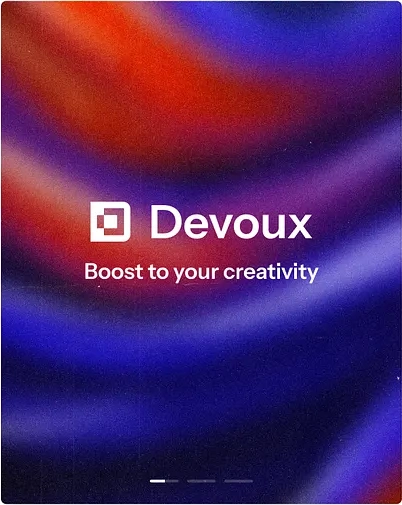
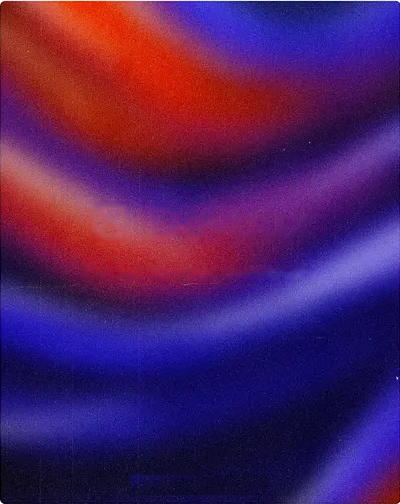
refactor(auth): purgar credenciales de login, ampliar contenedor e incorporar estetica minimalista con texto blanco hueso

diff --git a/frontend/src/app/login/page.tsx b/frontend/src/app/login/page.tsx
@@ -2,17 +2,7 @@
 
 import React, { useState } from 'react';
 import Image from 'next/image';
-import {
-  Lock,
-  Mail,
-  ShieldAlert,
-  ArrowRight,
-  UserCheck,
-  ShieldCheck,
-  Sparkles,
-  Smartphone,
-  Zap,
-} from 'lucide-react';
+import { Lock, Mail, ShieldAlert, ArrowRight } from 'lucide-react';
 import { useAuth } from '@/context/auth-context';
 import { Button } from '@/components/ui/button';
 import { Input } from '@/components/ui/input';
@@ -45,99 +35,61 @@ export default function LoginPage() {
   };
 
   return (
-    <div className="min-h-[calc(100vh-6rem)] flex items-center justify-center p-2 sm:p-4 lg:p-6 animate-in fade-in duration-300">
-      {/* Contenedor Flotante Split-Card (Inspirado en el diseño de referencia) */}
-      <div className="w-full max-w-4xl bg-white rounded-3xl shadow-2xl border border-slate-200/80 overflow-hidden grid grid-cols-1 lg:grid-cols-12">
+    <div className="min-h-[calc(100vh-5rem)] flex items-center justify-center p-3 sm:p-6 lg:p-10 animate-in fade-in duration-300">
+      {/* Contenedor Flotante Ampliado (Sincronizado con login_example.webp) */}
+      <div className="w-full max-w-5xl bg-white rounded-3xl shadow-2xl border border-slate-200/80 overflow-hidden grid grid-cols-1 lg:grid-cols-2">
         {/* =========================================================================
-            PANEL IZQUIERDO: Hero Artístico con Textura Líquida Orgánica y Grano Fino
-            (Replica exacta de docs/requerimientos/login_example.webp)
+            PANEL IZQUIERDO: Hero Artístico con Textura Líquida Orgánica
+            Solamente el nombre de la empresa centrado en color Blanco Hueso
             ========================================================================= */}
-        <div className="lg:col-span-5 relative p-6 sm:p-8 flex flex-col justify-between min-h-[460px] lg:min-h-[600px] bg-slate-950 text-white overflow-hidden">
+        <div className="relative p-8 sm:p-12 lg:p-16 flex flex-col justify-center items-center text-center min-h-[380px] lg:min-h-[620px] bg-slate-950 text-white overflow-hidden select-none">
           {/* Fondo de alta resolución con textura fluida de seda en azul cobalto y flama */}
           <div className="absolute inset-0">
             <Image
               src="/images/auth-hero-exact.webp"
-              alt="Textura fluida artística CentralPhone"
+              alt="Arte visual oficial CentralPhone"
               fill
               className="object-cover object-center scale-105"
               priority
             />
-            {/* Gradiente sutil para garantizar contraste y legibilidad absoluta */}
-            <div className="absolute inset-0 bg-gradient-to-t from-slate-950/90 via-slate-950/40 to-slate-950/60" />
+            {/* Velo sutil para contraste estético */}
+            <div className="absolute inset-0 bg-slate-950/25 backdrop-blur-[1px]" />
           </div>
 
-          {/* Badge superior: Ecosistema Oficial */}
-          <div className="relative z-10 flex items-center gap-2 px-3 py-1.5 rounded-full bg-slate-950/50 backdrop-blur-md border border-white/15 w-fit text-xs font-medium text-white/95 shadow-sm">
-            <Sparkles className="w-3.5 h-3.5 text-[#F97316]" />
-            <span>Ecosistema CentralPhone</span>
-          </div>
-
-          {/* Tarjeta Central Glassmorphism: Identidad y Promesa de Valor */}
-          <div className="relative z-10 p-5 sm:p-6 rounded-2xl bg-slate-950/65 backdrop-blur-md border border-white/15 shadow-2xl space-y-3.5 my-auto">
-            <div className="inline-flex p-2.5 rounded-xl bg-gradient-to-br from-[#363EFF] to-[#F97316] text-white shadow-md">
-              <Smartphone className="w-5 h-5" />
+          {/* Centro: Identidad Oficial en Blanco Hueso (#F8FAFC) */}
+          <div className="relative z-10 flex flex-col items-center justify-center space-y-4 max-w-xs sm:max-w-sm">
+            <div className="relative h-14 w-14 sm:h-16 sm:w-16 rounded-2xl bg-white/10 backdrop-blur-md border border-white/20 p-2.5 shadow-2xl flex items-center justify-center">
+              <Image
+                src="/logo.png"
+                alt="CentralPhone Logo"
+                fill
+                className="object-contain p-1.5 drop-shadow-md"
+                priority
+              />
             </div>
 
-            <div>
-              <h3 className="text-base sm:text-lg font-bold tracking-tight text-white leading-snug">
-                Control y Trazabilidad de Alta Precisión
-              </h3>
-              <p className="text-xs text-slate-300 leading-relaxed mt-1.5">
-                Gestión unificada de inventario serializado por IMEI, arqueo de caja a ciegas y emisión instantánea de comprobantes térmicos.
-              </p>
-            </div>
-
-            <div className="flex flex-wrap gap-2 pt-1 text-[11px] font-medium text-slate-200">
-              <span className="px-2.5 py-1 rounded-md bg-white/10 border border-white/10 flex items-center gap-1.5">
-                <ShieldCheck className="w-3 h-3 text-emerald-400" /> Control IMEI
-              </span>
-              <span className="px-2.5 py-1 rounded-md bg-white/10 border border-white/10 flex items-center gap-1.5">
-                <Zap className="w-3 h-3 text-amber-400" /> POS Ultrarrápido
-              </span>
-            </div>
-          </div>
-
-          {/* Indicadores de Carrusel Inferior (Estilo exacto de login_example.webp) */}
-          <div className="relative z-10 flex items-center gap-2 pt-2">
-            <div className="h-1.5 w-7 rounded-full bg-white transition-all shadow-sm" />
-            <div className="h-1.5 w-1.5 rounded-full bg-white/40" />
-            <div className="h-1.5 w-1.5 rounded-full bg-white/40" />
+            <h1 className="text-3xl sm:text-4xl font-bold tracking-tight text-[#F8FAFC] drop-shadow-md">
+              CentralPhone
+            </h1>
+            <p className="text-xs sm:text-sm text-[#F1F5F9]/80 font-normal tracking-wide">
+              Ecosistema Oficial de Gestión Comercial
+            </p>
           </div>
         </div>
 
         {/* =========================================================================
-            PANEL DERECHO: Formulario de Autenticación & Acceso Rápido POS
+            PANEL DERECHO: Formulario de Autenticación POS
+            Ingreso manual estricto (DoD Fase 1 de Seguridad - Cero Credenciales Expuestas)
             ========================================================================= */}
-        <div className="lg:col-span-7 p-6 sm:p-10 flex flex-col justify-between bg-white">
-          <div className="space-y-6">
-            {/* Header de Identidad de Marca */}
-            <div className="flex items-center gap-3">
-              <div className="relative h-11 w-11 overflow-hidden rounded-2xl border border-slate-200 bg-white shadow-subtle p-1.5 flex-shrink-0">
-                <Image
-                  src="/logo.png"
-                  alt="CentralPhone Logo"
-                  fill
-                  className="object-contain p-0.5"
-                  priority
-                />
-              </div>
-              <div>
-                <h1 className="text-xl font-bold tracking-tight text-slate-900 leading-tight">
-                  CentralPhone
-                </h1>
-                <p className="text-xs text-slate-500">
-                  Terminal Oficial de Mostrador & Inventario
-                </p>
-              </div>
-            </div>
-
+        <div className="p-8 sm:p-12 lg:p-14 flex flex-col justify-between bg-white">
+          <div className="space-y-6 my-auto">
             {/* Título de la Sección */}
-            <div>
-              <h2 className="text-2xl font-bold tracking-tight text-slate-900">
+            <div className="space-y-1.5">
+              <h2 className="text-2xl sm:text-3xl font-bold tracking-tight text-slate-900">
                 Acceso al Sistema
               </h2>
-              <p className="text-xs text-slate-500 mt-1">
-                Ingresa tus credenciales autorizadas para abrir tu turno operativo.
+              <p className="text-xs sm:text-sm text-slate-500">
+                Ingresa tus credenciales autorizadas de usuario para iniciar tu turno.
               </p>
             </div>
 
@@ -149,38 +101,7 @@ export default function LoginPage() {
               </div>
             )}
 
-            {/* Acceso Rápido para Demostración y Pruebas Operativas */}
-            <div className="space-y-2">
-              <p className="text-[10px] font-semibold text-slate-400 uppercase tracking-wider">
-                Acceso Rápido por Rol
-              </p>
-              <div className="grid grid-cols-2 gap-2.5">
-                <button
-                  type="button"
-                  onClick={() => {
-                    setEmail('admin@centralphone.com');
-                    setPassword('admin123456');
-                  }}
-                  className="flex items-center justify-center gap-1.5 px-3 py-2 text-xs font-medium rounded-xl border border-slate-200 bg-slate-50 hover:bg-[#363EFF]/5 hover:border-[#363EFF]/30 hover:text-[#363EFF] text-slate-700 transition-all text-center"
-                >
-                  <ShieldCheck className="w-3.5 h-3.5 text-[#363EFF]" />
-                  <span>Administrador</span>
-                </button>
-                <button
-                  type="button"
-                  onClick={() => {
-                    setEmail('vendedor@centralphone.com');
-                    setPassword('vendedor123');
-                  }}
-                  className="flex items-center justify-center gap-1.5 px-3 py-2 text-xs font-medium rounded-xl border border-slate-200 bg-slate-50 hover:bg-[#F97316]/5 hover:border-[#F97316]/30 hover:text-[#F97316] text-slate-700 transition-all text-center"
-                >
-                  <UserCheck className="w-3.5 h-3.5 text-[#F97316]" />
-                  <span>Vendedor POS</span>
-                </button>
-              </div>
-            </div>
-
-            {/* Formulario de Login */}
+            {/* Formulario de Login Estándar y Seguro */}
             <form onSubmit={handleSubmit} className="space-y-4 pt-1">
               <div>
                 <Label required>Correo Electrónico</Label>
@@ -225,7 +146,7 @@ export default function LoginPage() {
             </form>
           </div>
 
-          {/* Footer de Seguridad */}
+          {/* Footer de Seguridad y Cierre */}
           <div className="pt-6 border-t border-slate-100 mt-6">
             <p className="text-center text-[11px] text-slate-400">
               CentralPhone POS • Sesión protegida mediante JWT & RBAC
